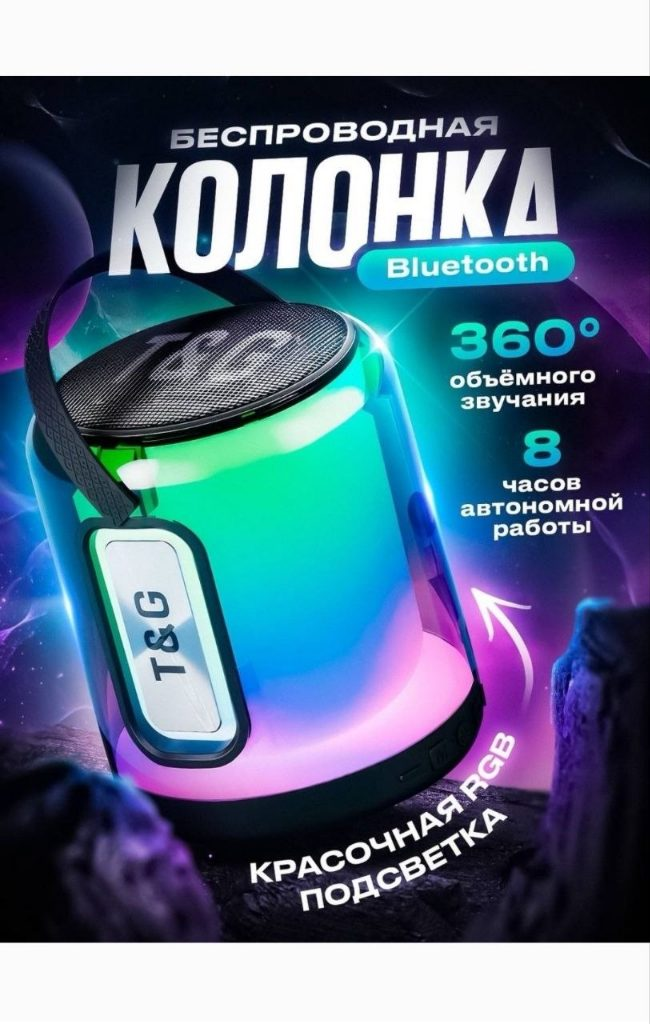
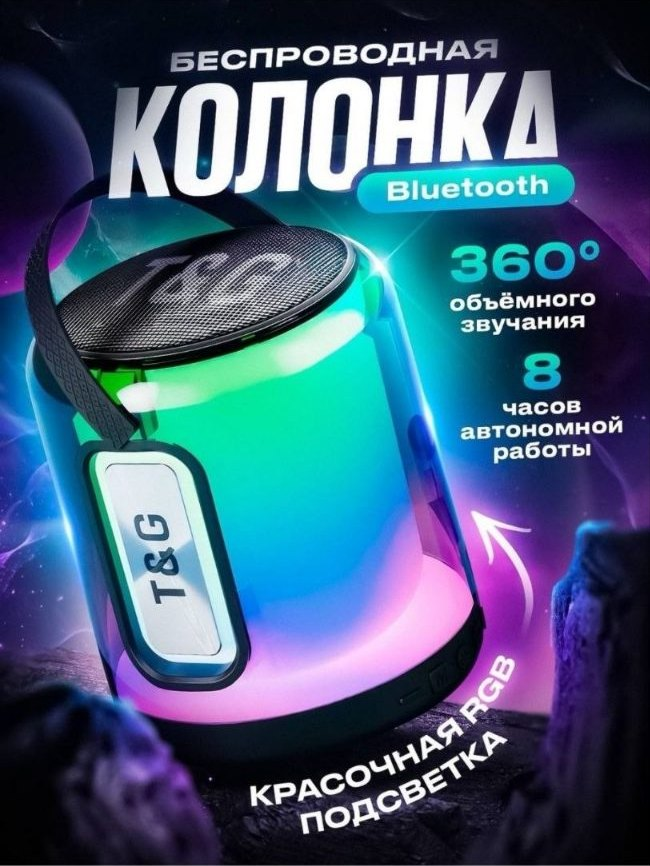
Обрезка белых полос в карточке колонки (card-speaker)

diff --git a/index.html b/index.html
@@ -51,7 +51,7 @@
           </article>
 
           <article class="pcard">
-            <img src="assets/img/card-speaker.jpg" width="650" height="1024" alt="Беспроводная Bluetooth-колонка с RGB-подсветкой" />
+            <img src="assets/img/card-speaker.jpg" width="650" height="866" alt="Беспроводная Bluetooth-колонка с RGB-подсветкой" />
           </article>
         </div>
       </div>